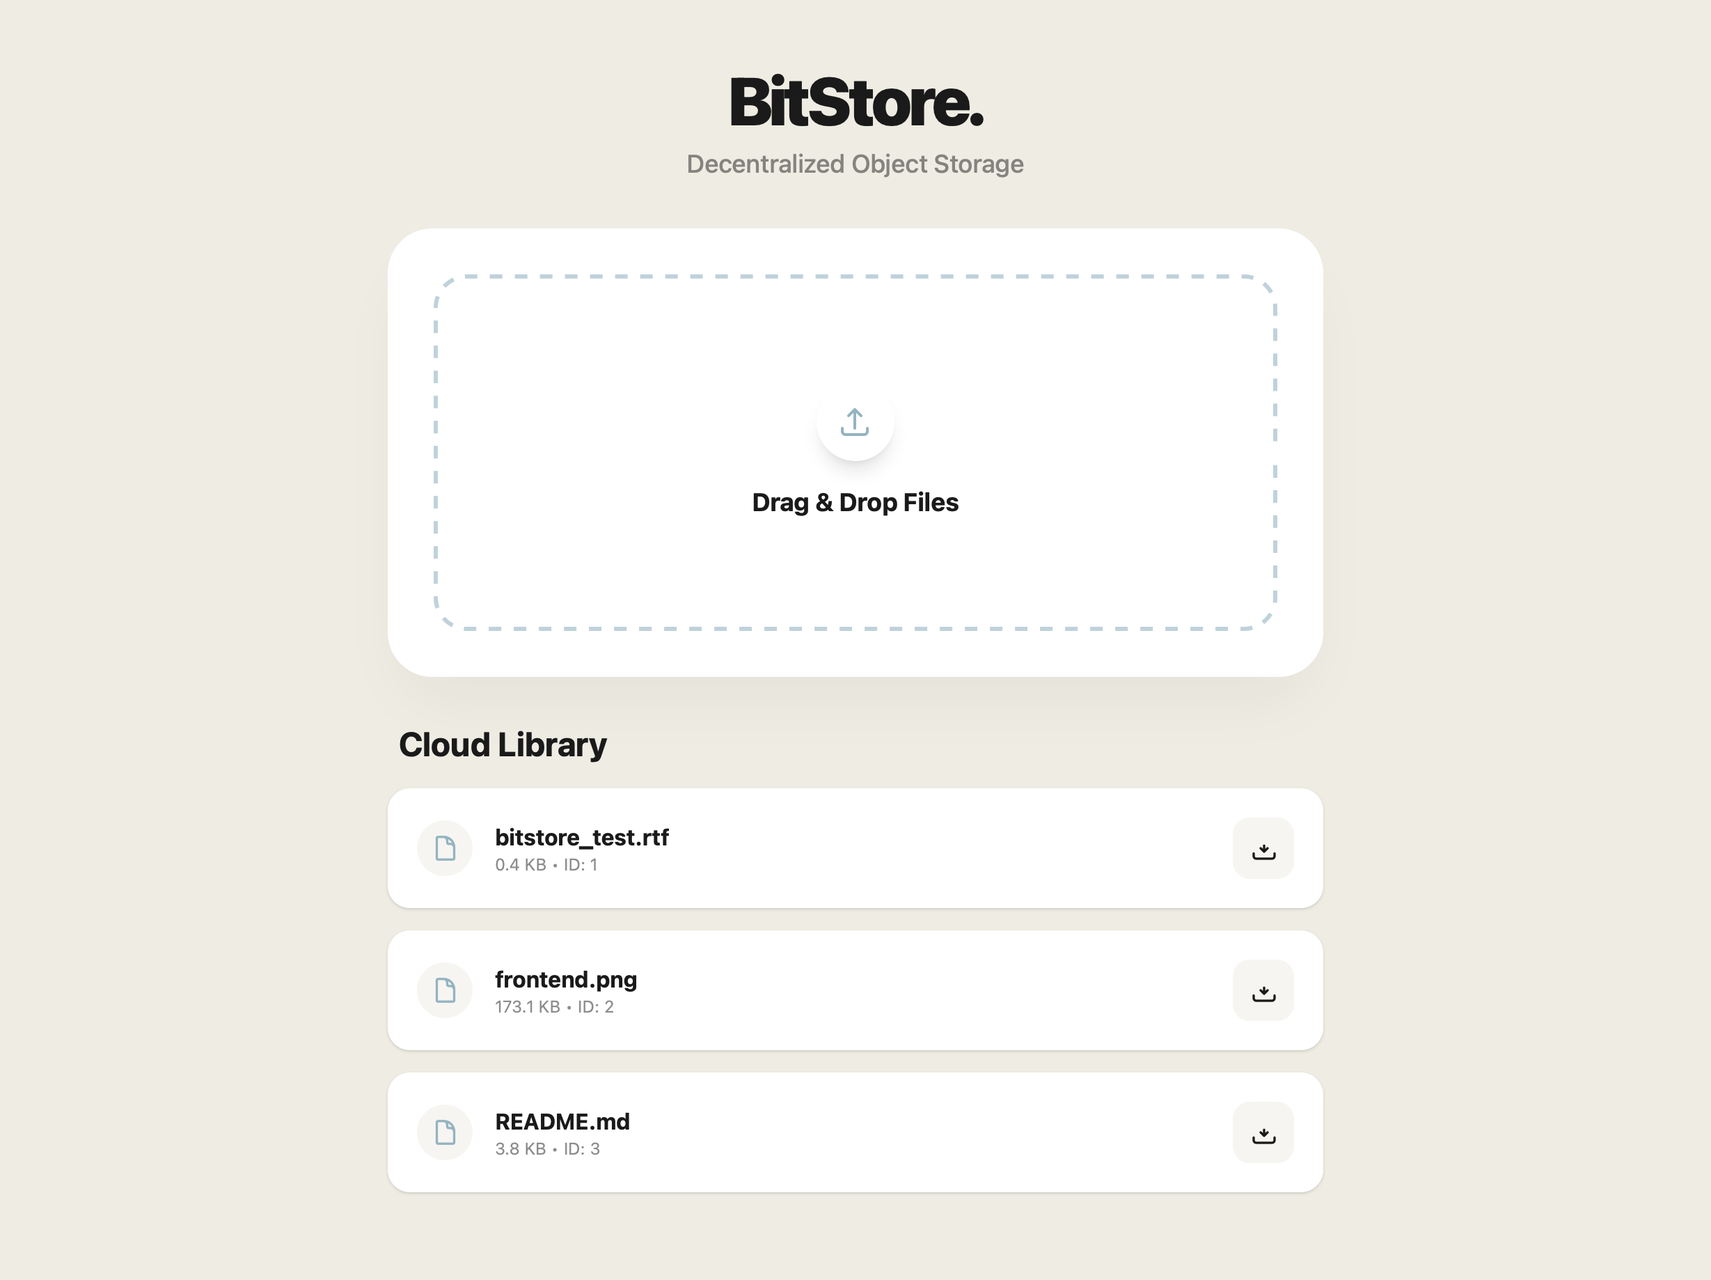
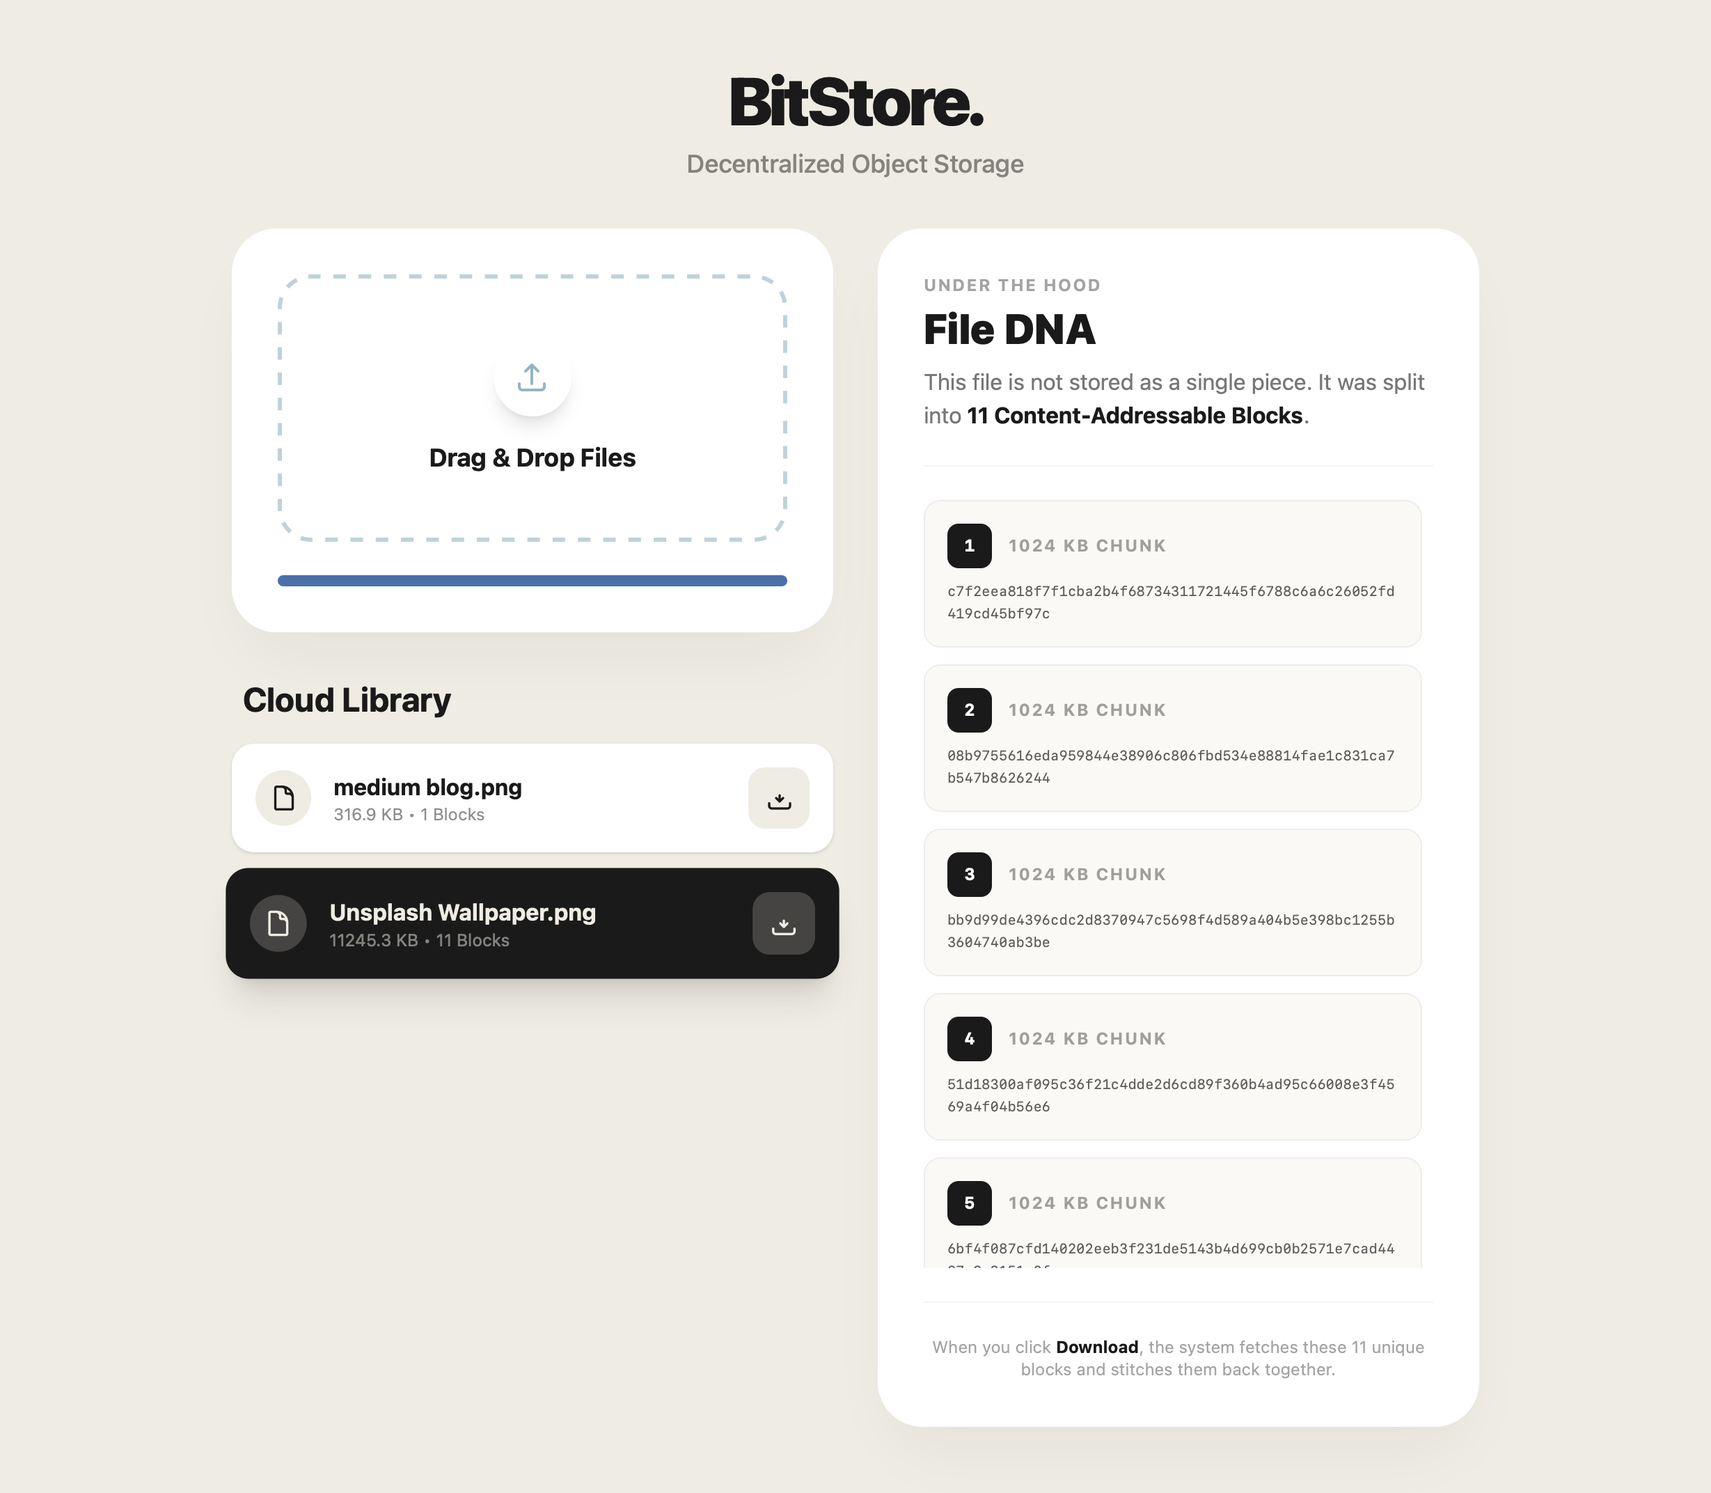
Fix: Drop box animation

Changed region(s): [[0.1237, 0.031, 0.8657, 0.9614]]

diff --git a/frontend/src/App.jsx b/frontend/src/App.jsx
@@ -93,152 +93,178 @@ function App() {
   };
 
   return (
-    <div className="min-h-screen bg-[#EFECE3] text-[#1A1A1A] font-sans flex flex-col items-center py-12 px-6 transition-colors duration-500">
-      <div className="w-full max-w-4xl space-y-8">
-        
-        <div className="text-center">
-          <h1 className="text-5xl font-black tracking-tighter mb-2 text-[#1A1A1A]">BitStore.</h1>
-          <p className="text-lg font-medium text-[#1A1A1A]/50">Decentralized Object Storage</p>
-        </div>
+		<div className="min-h-screen bg-[#EFECE3] text-[#1A1A1A] font-sans flex flex-col items-center py-12 px-6 transition-colors duration-500">
+			<div className="w-full max-w-4xl space-y-8">
+				<div className="text-center">
+					<h1 className="text-5xl font-black tracking-tighter mb-2 text-[#1A1A1A]">BitStore.</h1>
+					<p className="text-lg font-medium text-[#1A1A1A]/50">Decentralized Object Storage</p>
+				</div>
 
-        <div className="grid grid-cols-1 lg:grid-cols-2 gap-8 items-start">
-          
-          {/* LEFT COLUMN: Upload & List */}
-          <div className="space-y-8">
-            {/* UPLOAD CARD */}
-            <div className="bg-white rounded-[2rem] p-8 shadow-2xl shadow-black/5 border border-white/50 backdrop-blur-xl transition-all duration-300">
-              <form
-                className={`relative flex flex-col items-center justify-center w-full h-48 rounded-3xl border-3 border-dashed transition-all duration-300 ease-out
+				<div className="grid grid-cols-1 lg:grid-cols-2 gap-8 items-start">
+					{/* LEFT COLUMN: Upload & List */}
+					<div className="space-y-8">
+						{/* UPLOAD CARD */}
+						<div className="bg-white rounded-[2rem] p-8 shadow-2xl shadow-black/5 border border-white/50 backdrop-blur-xl transition-all duration-300">
+							<form
+								className={`relative flex flex-col items-center justify-center w-full h-48 rounded-3xl border-3 border-dashed transition-all duration-300 ease-out
                   ${dragActive 
-                    ? "border-[#4A70A9] bg-[#8FABD4]/10 scale-[1.02]" 
-                    : "border-[#1A1A1A]/10 hover:border-[#4A70A9]/40 hover:bg-[#EFECE3]/30"
-                  }`}
-                onDragEnter={handleDrag} onDragLeave={handleDrag} onDragOver={handleDrag} onDrop={handleDrop}
-              >
-                <input type="file" className="absolute inset-0 w-full h-full opacity-0 cursor-pointer" onChange={handleChange} multiple />
-                <div className="flex flex-col items-center gap-4 pointer-events-none">
-                   <p className="text-lg font-bold text-[#1A1A1A]">{dragActive ? "Drop files now" : "Drag & Drop Files"}</p>
-                </div>
-              </form>
+                    ? "border-[#94B4C1] bg-[#94B4C1]/10 scale-[1.02]" 
+                    : "border-[#94B4C1]/60 hover:border-[#94B4C1] hover:bg-[#EFECE3]/15 hover:scale-[1.02]"}`}
+								onDragEnter={handleDrag}
+								onDragLeave={handleDrag}
+								onDragOver={handleDrag}
+								onDrop={handleDrop}>
+								<input type="file" className="absolute inset-0 w-full h-full opacity-0 cursor-pointer" onChange={handleChange} multiple />
+								<div className="flex flex-col items-center gap-4 pointer-events-none">
+									{/* 🔽 File Drop Icon (copied) */}
+									<div
+										className={`p-4 rounded-full shadow-lg transition-all 
+                  ${dragActive 
+                    ? "bg-[#94B4C1] text-white scale-110" 
+                    : "bg-white text-[#94B4C1]"}`}>
+										<svg xmlns="http://www.w3.org/2000/svg" fill="none" viewBox="0 0 24 24" strokeWidth={2} stroke="currentColor" className="w-6 h-6">
+											<path strokeLinecap="round" strokeLinejoin="round" d="M3 16.5v2.25A2.25 2.25 0 0 0 5.25 21h13.5A2.25 2.25 0 0 0 21 18.75V16.5m-13.5-9L12 3m0 0 4.5 4.5M12 3v13.5" />
+										</svg>
+									</div>
 
-              {(uploading || progress > 0) && (
-                <div className="mt-6">
-                  <div className="h-2 bg-[#EFECE3] rounded-full overflow-hidden"><div className="h-full bg-[#4A70A9] transition-all duration-300" style={{ width: `${progress}%` }}></div></div>
-                </div>
-              )}
-              
-              {files.length > 0 && (
-                 <div className="mt-6 space-y-3">
-                    <div className="flex items-center justify-between px-2 mb-2">
-                      <span className="text-xs font-bold uppercase tracking-widest text-[#1A1A1A]/40">Queue ({files.length})</span>
-                      <button onClick={() => setFiles([])} className="text-xs font-bold text-red-500 hover:text-red-700 transition-colors uppercase tracking-widest cursor-pointer">CLEAR</button>
-                    </div>
-                    {files.map((f, i) => (
-                       <div key={i} className="flex justify-between p-3 bg-[#EFECE3]/50 rounded-xl text-sm font-bold text-[#1A1A1A]">
-                          <span>{f.name}</span> <span className="text-[#1A1A1A]/40">{(f.size/1024).toFixed(1)} KB</span>
-                       </div>
-                    ))}
-                    <button 
-                       onClick={uploadFiles} 
-                       disabled={uploading} 
-                       className={`w-full py-4 rounded-xl font-bold uppercase tracking-wider shadow-lg transition-all 
-                         ${uploading ? 'bg-[#EFECE3] text-[#1A1A1A]/40' : 'bg-[#1A1A1A] text-[#EFECE3] hover:-translate-y-1 shadow-[#1A1A1A]/20'}`}
-                    >
-                       {uploading ? "Uploading..." : "Start Upload"}
-                    </button>
-                 </div>
-              )}
-            </div>
+									<p className="text-lg font-bold text-[#1A1A1A]">{dragActive ? "Drop files now" : "Drag & Drop Files"}</p>
+								</div>
+							</form>
 
-            {/* LIBRARY LIST */}
-            {storedFiles.length > 0 && (
-              <div className="space-y-4">
-                <h2 className="text-2xl font-bold text-[#1A1A1A] px-2">Cloud Library</h2>
-                <div className="grid gap-3">
-                  {storedFiles.map((file) => (
-                    <div 
-                      key={file.id} 
-                      onClick={() => setSelectedFile(file)}
-                      className={`group cursor-pointer p-4 rounded-2xl shadow-sm border transition-all flex items-center justify-between
-                        ${selectedFile?.id === file.id 
-                          ? 'bg-[#1A1A1A] text-[#EFECE3] border-[#1A1A1A] scale-[1.02] shadow-xl' 
-                          : 'bg-white text-[#1A1A1A] border-transparent hover:border-[#4A70A9]/20 hover:shadow-md'
-                        }`}
-                    >
-                      <div className="flex items-center gap-4">
-                        <div className={`w-10 h-10 rounded-full flex items-center justify-center transition-colors ${selectedFile?.id === file.id ? 'bg-[#EFECE3]/20 text-[#EFECE3]' : 'bg-[#EFECE3] text-[#1A1A1A]'}`}>
-                          <svg xmlns="http://www.w3.org/2000/svg" fill="none" viewBox="0 0 24 24" strokeWidth={2} stroke="currentColor" className="w-5 h-5">
-                            <path strokeLinecap="round" strokeLinejoin="round" d="M19.5 14.25v-2.625a3.375 3.375 0 0 0-3.375-3.375h-1.5A1.125 1.125 0 0 1 13.5 7.125v-1.5a3.375 3.375 0 0 0-3.375-3.375H8.25m2.25 0H5.625c-.621 0-1.125.504-1.125 1.125v17.25c0 .621.504 1.125 1.125 1.125h12.75c.621 0 1.125-.504 1.125-1.125V11.25a9 9 0 0 0-9-9Z" />
-                          </svg>
-                        </div>
-                        <div>
-                          <p className="font-bold">{file.fileName}</p>
-                          <p className={`text-xs ${selectedFile?.id === file.id ? 'text-[#EFECE3]/50' : 'text-[#1A1A1A]/50'}`}>{(file.size / 1024).toFixed(1)} KB • {file.blockHashes.length} Blocks</p>
-                        </div>
-                      </div>
-                      <button onClick={(e) => handleDownload(e, file.id, file.fileName)} className={`p-3 rounded-xl transition-colors ${selectedFile?.id === file.id ? 'bg-[#EFECE3]/20 hover:bg-[#EFECE3] hover:text-[#1A1A1A]' : 'bg-[#EFECE3] hover:bg-[#4A70A9] hover:text-white'}`} title="Download">
-                        <svg xmlns="http://www.w3.org/2000/svg" fill="none" viewBox="0 0 24 24" strokeWidth={2} stroke="currentColor" className="w-5 h-5">
-                          <path strokeLinecap="round" strokeLinejoin="round" d="M3 16.5v2.25A2.25 2.25 0 0 0 5.25 21h13.5A2.25 2.25 0 0 0 21 18.75V16.5M12 9.75V15m0 0 3-3m-3 3-3-3" />
-                        </svg>
-                      </button>
-                    </div>
-                  ))}
-                </div>
-              </div>
-            )}
-          </div>
+							{(uploading || progress > 0) && (
+								<div className="mt-6">
+									<div className="h-2 bg-[#EFECE3] rounded-full overflow-hidden">
+										<div className="h-full bg-[#4A70A9] transition-all duration-300" style={{ width: `${progress}%` }}></div>
+									</div>
+								</div>
+							)}
 
-          {/* RIGHT COLUMN: INSPECTOR */}
-          <div className="sticky top-8">
-            {selectedFile ? (
-              <div className="bg-white rounded-[2rem] p-8 shadow-2xl shadow-black/5 border border-white/50 backdrop-blur-xl animate-fade-in-up">
-                <div className="mb-6 pb-6 border-b border-[#1A1A1A]/5">
-                  <p className="text-xs font-bold uppercase tracking-widest text-[#1A1A1A]/40 mb-1">Under the hood</p>
-                  <h2 className="text-3xl font-black text-[#1A1A1A] leading-tight">File DNA</h2>
-                  <p className="text-[#1A1A1A]/60 mt-2">
-                    This file is not stored as a single piece. It was split into 
-                    <strong className="text-[#1A1A1A]"> {selectedFile.blockHashes.length} Content-Addressable Blocks</strong>.
-                  </p>
-                </div>
+							{files.length > 0 && (
+								<div className="mt-6 space-y-3">
+									<div className="flex items-center justify-between px-2 mb-2">
+										<span className="text-xs font-bold uppercase tracking-widest text-[#1A1A1A]/40">Queue ({files.length})</span>
+										<button onClick={() => setFiles([])} className="text-xs font-bold text-red-500 hover:text-red-700 transition-colors uppercase tracking-widest cursor-pointer">
+											CLEAR
+										</button>
+									</div>
+									{files.map((f, i) => (
+										<div key={i} className="flex justify-between p-3 bg-[#EFECE3]/50 rounded-xl text-sm font-bold text-[#1A1A1A]">
+											<span>{f.name}</span> <span className="text-[#1A1A1A]/40">{(f.size / 1024).toFixed(1)} KB</span>
+										</div>
+									))}
+									<button
+										onClick={uploadFiles}
+										disabled={uploading}
+										className={`w-full py-4 rounded-xl font-bold uppercase tracking-wider shadow-lg transition-all 
+                         ${uploading ? "bg-[#EFECE3] text-[#1A1A1A]/40" : "bg-[#1A1A1A] text-[#EFECE3] hover:-translate-y-1 shadow-[#1A1A1A]/20"}`}>
+										{uploading ? "Uploading..." : "Start Upload"}
+									</button>
+								</div>
+							)}
+						</div>
 
-                <div className="space-y-3 max-h-[60vh] overflow-y-auto pr-2 custom-scrollbar">
-                  {selectedFile.blockHashes.map((hash, i) => (
-                    <div key={i} className="group bg-[#EFECE3]/30 p-4 rounded-xl border border-[#1A1A1A]/5 hover:border-[#4A70A9]/30 hover:bg-[#EFECE3] transition-all">
-                      <div className="flex items-center gap-3 mb-2">
-                        <div className="w-8 h-8 rounded-lg bg-[#1A1A1A] text-white flex items-center justify-center text-xs font-bold font-mono">
-                          {i + 1}
-                        </div>
-                        <span className="text-xs font-bold uppercase tracking-widest text-[#1A1A1A]/40">1024 KB Chunk</span>
-                      </div>
-                      <div className="font-mono text-[10px] break-all text-[#1A1A1A]/70 leading-relaxed group-hover:text-[#4A70A9] transition-colors">
-                        {hash}
-                      </div>
-                    </div>
-                  ))}
-                </div>
+						{/* LIBRARY LIST */}
+						{storedFiles.length > 0 && (
+							<div className="space-y-4">
+								<h2 className="text-2xl font-bold text-[#1A1A1A] px-2">Cloud Library</h2>
+								<div className="grid gap-3">
+									{storedFiles.map((file) => (
+										<div
+											key={file.id}
+											onClick={() => setSelectedFile(file)}
+											className={`group cursor-pointer p-4 rounded-2xl shadow-sm border transition-all flex items-center justify-between
+                        ${
+													selectedFile?.id === file.id
+														? "bg-[#1A1A1A] text-[#EFECE3] border-[#1A1A1A] scale-[1.02] shadow-xl"
+														: "bg-white text-[#1A1A1A] border-transparent hover:border-[#4A70A9]/20 hover:shadow-md"
+												}`}>
+											<div className="flex items-center gap-4">
+												<div
+													className={`w-10 h-10 rounded-full flex items-center justify-center transition-colors ${
+														selectedFile?.id === file.id ? "bg-[#EFECE3]/20 text-[#EFECE3]" : "bg-[#EFECE3] text-[#1A1A1A]"
+													}`}>
+													<svg xmlns="http://www.w3.org/2000/svg" fill="none" viewBox="0 0 24 24" strokeWidth={2} stroke="currentColor" className="w-5 h-5">
+														<path
+															strokeLinecap="round"
+															strokeLinejoin="round"
+															d="M19.5 14.25v-2.625a3.375 3.375 0 0 0-3.375-3.375h-1.5A1.125 1.125 0 0 1 13.5 7.125v-1.5a3.375 3.375 0 0 0-3.375-3.375H8.25m2.25 0H5.625c-.621 0-1.125.504-1.125 1.125v17.25c0 .621.504 1.125 1.125 1.125h12.75c.621 0 1.125-.504 1.125-1.125V11.25a9 9 0 0 0-9-9Z"
+														/>
+													</svg>
+												</div>
+												<div>
+													<p className="font-bold">{file.fileName}</p>
+													<p className={`text-xs ${selectedFile?.id === file.id ? "text-[#EFECE3]/50" : "text-[#1A1A1A]/50"}`}>
+														{(file.size / 1024).toFixed(1)} KB • {file.blockHashes.length} Blocks
+													</p>
+												</div>
+											</div>
+											<button
+												onClick={(e) => handleDownload(e, file.id, file.fileName)}
+												className={`p-3 rounded-xl transition-colors ${
+													selectedFile?.id === file.id ? "bg-[#EFECE3]/20 hover:bg-[#EFECE3] hover:text-[#1A1A1A]" : "bg-[#EFECE3] hover:bg-[#4A70A9] hover:text-white"
+												}`}
+												title="Download">
+												<svg xmlns="http://www.w3.org/2000/svg" fill="none" viewBox="0 0 24 24" strokeWidth={2} stroke="currentColor" className="w-5 h-5">
+													<path strokeLinecap="round" strokeLinejoin="round" d="M3 16.5v2.25A2.25 2.25 0 0 0 5.25 21h13.5A2.25 2.25 0 0 0 21 18.75V16.5M12 9.75V15m0 0 3-3m-3 3-3-3" />
+												</svg>
+											</button>
+										</div>
+									))}
+								</div>
+							</div>
+						)}
+					</div>
 
-                <div className="mt-6 pt-6 border-t border-[#1A1A1A]/5 text-center">
-                  <p className="text-xs text-[#1A1A1A]/40">
-                    When you click <strong className="text-[#1A1A1A]">Download</strong>, the system fetches these {selectedFile.blockHashes.length} unique blocks and stitches them back together.
-                  </p>
-                </div>
-              </div>
-            ) : (
-              <div className="h-full flex flex-col items-center justify-center text-center p-12 opacity-30 border-2 border-dashed border-[#1A1A1A]/20 rounded-[2rem]">
-                <svg xmlns="http://www.w3.org/2000/svg" fill="none" viewBox="0 0 24 24" strokeWidth={1.5} stroke="currentColor" className="w-16 h-16 mb-4">
-                  <path strokeLinecap="round" strokeLinejoin="round" d="M2.036 12.322a1.012 1.012 0 0 1 0-.639C3.423 7.51 7.36 4.5 12 4.5c4.638 0 8.573 3.007 9.963 7.178.07.207.07.431 0 .639C20.577 16.49 16.64 19.5 12 19.5c-4.638 0-8.573-3.007-9.963-7.178Z" />
-                  <path strokeLinecap="round" strokeLinejoin="round" d="M15 12a3 3 0 1 1-6 0 3 3 0 0 1 6 0Z" />
-                </svg>
-                <p className="text-xl font-bold">Select a file to inspect</p>
-                <p className="text-sm mt-2">See how BitStore de-chunks and hashes your data.</p>
-              </div>
-            )}
-          </div>
+					{/* RIGHT COLUMN: INSPECTOR */}
+					<div className="sticky top-8">
+						{selectedFile ? (
+							<div className="bg-white rounded-[2rem] p-8 shadow-2xl shadow-black/5 border border-white/50 backdrop-blur-xl animate-fade-in-up">
+								<div className="mb-6 pb-6 border-b border-[#1A1A1A]/5">
+									<p className="text-xs font-bold uppercase tracking-widest text-[#1A1A1A]/40 mb-1">Under the hood</p>
+									<h2 className="text-3xl font-black text-[#1A1A1A] leading-tight">File DNA</h2>
+									<p className="text-[#1A1A1A]/60 mt-2">
+										This file is not stored as a single piece. It was split into
+										<strong className="text-[#1A1A1A]"> {selectedFile.blockHashes.length} Content-Addressable Blocks</strong>.
+									</p>
+								</div>
 
-        </div>
-      </div>
-    </div>
-  );
+								<div className="space-y-3 max-h-[60vh] overflow-y-auto pr-2 custom-scrollbar">
+									{selectedFile.blockHashes.map((hash, i) => (
+										<div key={i} className="group bg-[#EFECE3]/30 p-4 rounded-xl border border-[#1A1A1A]/5 hover:border-[#4A70A9]/30 hover:bg-[#EFECE3] transition-all">
+											<div className="flex items-center gap-3 mb-2">
+												<div className="w-8 h-8 rounded-lg bg-[#1A1A1A] text-white flex items-center justify-center text-xs font-bold font-mono">{i + 1}</div>
+												<span className="text-xs font-bold uppercase tracking-widest text-[#1A1A1A]/40">1024 KB Chunk</span>
+											</div>
+											<div className="font-mono text-[10px] break-all text-[#1A1A1A]/70 leading-relaxed group-hover:text-[#4A70A9] transition-colors">{hash}</div>
+										</div>
+									))}
+								</div>
+
+								<div className="mt-6 pt-6 border-t border-[#1A1A1A]/5 text-center">
+									<p className="text-xs text-[#1A1A1A]/40">
+										When you click <strong className="text-[#1A1A1A]">Download</strong>, the system fetches these {selectedFile.blockHashes.length} unique blocks and stitches them back together.
+									</p>
+								</div>
+							</div>
+						) : (
+							<div className="h-full flex flex-col items-center justify-center text-center p-12 opacity-30 border-2 border-dashed border-[#1A1A1A]/20 rounded-[2rem]">
+								<svg xmlns="http://www.w3.org/2000/svg" fill="none" viewBox="0 0 24 24" strokeWidth={1.5} stroke="currentColor" className="w-16 h-16 mb-4">
+									<path
+										strokeLinecap="round"
+										strokeLinejoin="round"
+										d="M2.036 12.322a1.012 1.012 0 0 1 0-.639C3.423 7.51 7.36 4.5 12 4.5c4.638 0 8.573 3.007 9.963 7.178.07.207.07.431 0 .639C20.577 16.49 16.64 19.5 12 19.5c-4.638 0-8.573-3.007-9.963-7.178Z"
+									/>
+									<path strokeLinecap="round" strokeLinejoin="round" d="M15 12a3 3 0 1 1-6 0 3 3 0 0 1 6 0Z" />
+								</svg>
+								<p className="text-xl font-bold">Select a file to inspect</p>
+								<p className="text-sm mt-2">See how BitStore de-chunks and hashes your data.</p>
+							</div>
+						)}
+					</div>
+				</div>
+			</div>
+		</div>
+	);
 }
 
 export default App;

diff --git a/README.md b/README.md
@@ -87,15 +87,6 @@ BitStore follows a decoupled microservices architecture:
 
 ---
 
-## 🔮 Roadmap
-
-* [ ] **PostgreSQL Migration:** Move metadata persistence to disk (currently H2 In-Memory).
-* [ ] **Download Capability:** Implement the re-patching logic in the frontend.
-* [ ] **Replication:** Store blocks on multiple nodes for fault tolerance.
-* [ ] **Docker Compose:** Containerize the entire stack.
-
----
-
 ## 📄 License
 
 **Open Source.**
